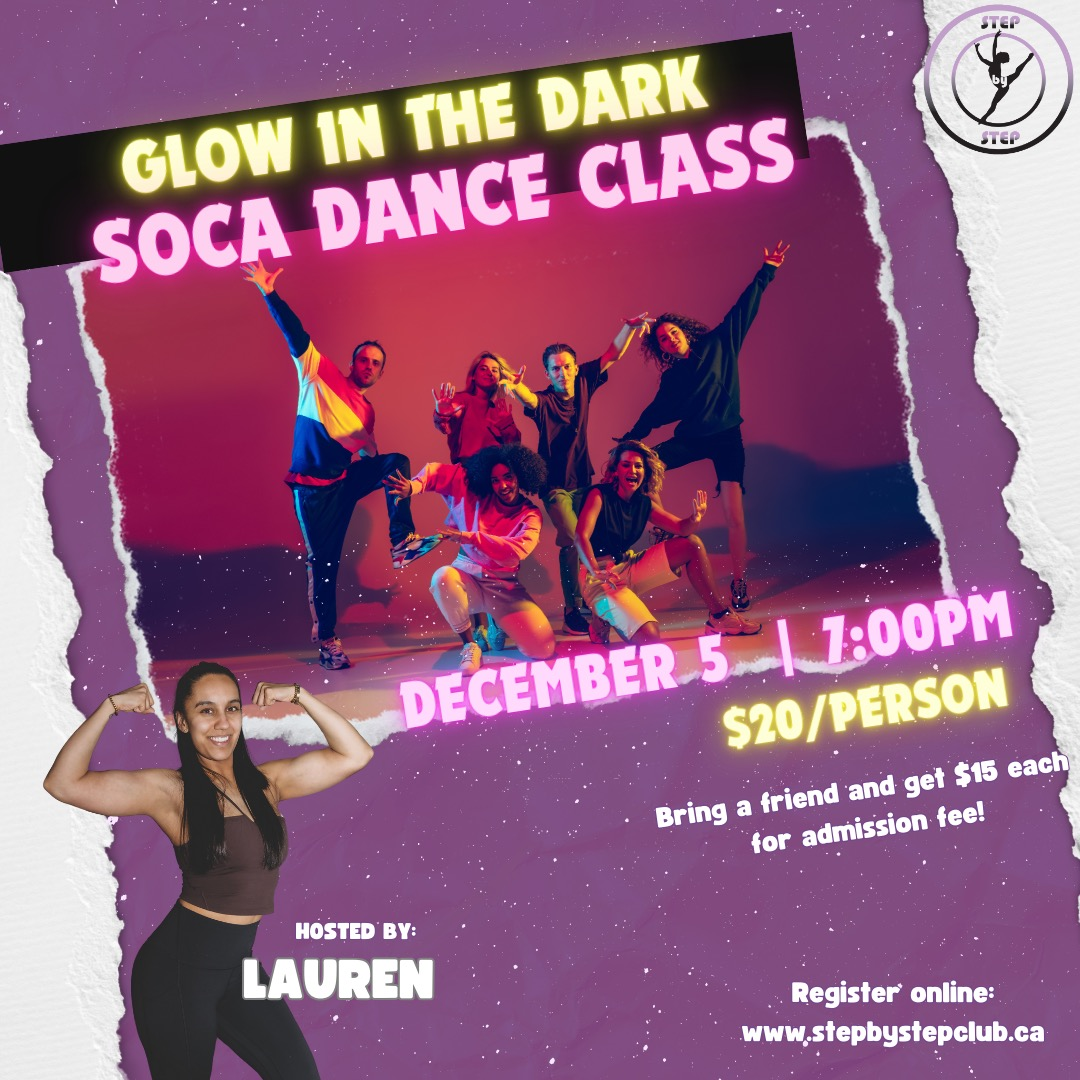
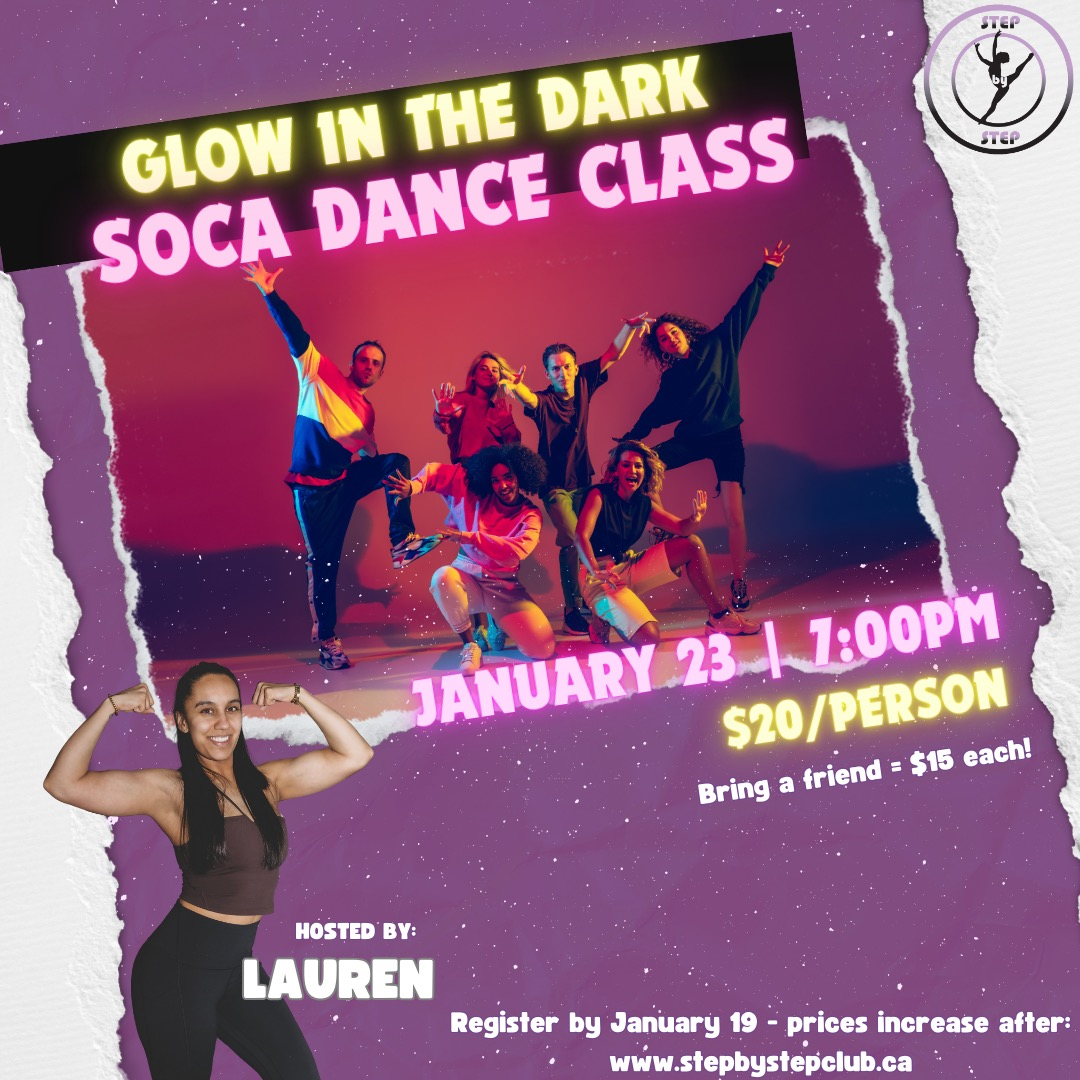
add special events image and link

Changed region(s): [[0.3972, 0.8861, 0.9778, 1.0], [0.3667, 0.55, 0.9472, 0.6722], [0.6111, 0.6722, 1.0, 0.7944]]

diff --git a/client/src/components/SpecialEvents/SpecialEvents.js b/client/src/components/SpecialEvents/SpecialEvents.js
@@ -1,6 +1,7 @@
 import "./SpecialEvents.scss";
 import { useState } from "react";
 import specialEvents from "../../assets/images/newyear.jpeg";
+import specialEvents2 from '../../assets/images/soca.jpeg'
 
 
 const SpecialEvents = () => {
@@ -12,6 +13,12 @@ const SpecialEvents = () => {
   const linkToBuyTickets = () => {
     window.open(
       "https://www.wellnessliving.com/rs/event/step_by_step_club?k_class=893309&k_class_tab=66373",
+      "_blank"
+    );
+  };
+    const linkToBuyTickets2 = () => {
+    window.open(
+      "https://www.wellnessliving.com/rs/catalog-view.html?k_business=651877&id_sale=3&k_id=905938",
       "_blank"
     );
   };
@@ -41,6 +48,20 @@ const SpecialEvents = () => {
           <button
             className="special-events__button"
             onClick={linkToBuyTickets}
+          >
+            Click Here to Register!
+          </button>
+        </div>
+           <div className="special-events__image-container">
+          <img
+            src={specialEvents2}
+            alt="Special Event"
+            className="special-events__image"
+            onClick={() => openMedia(specialEvents2)}
+          />
+          <button
+            className="special-events__button"
+            onClick={linkToBuyTickets2}
           >
             Click Here to Register!
           </button>
